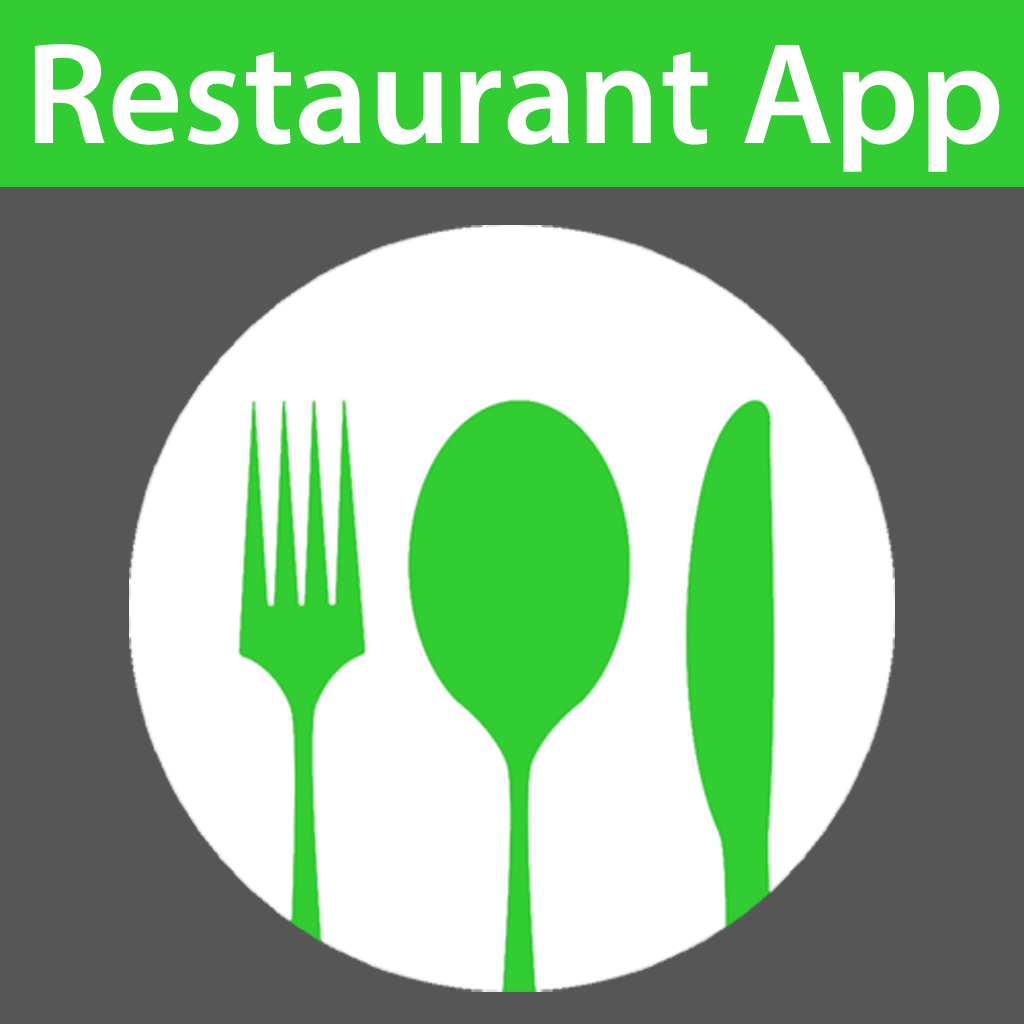
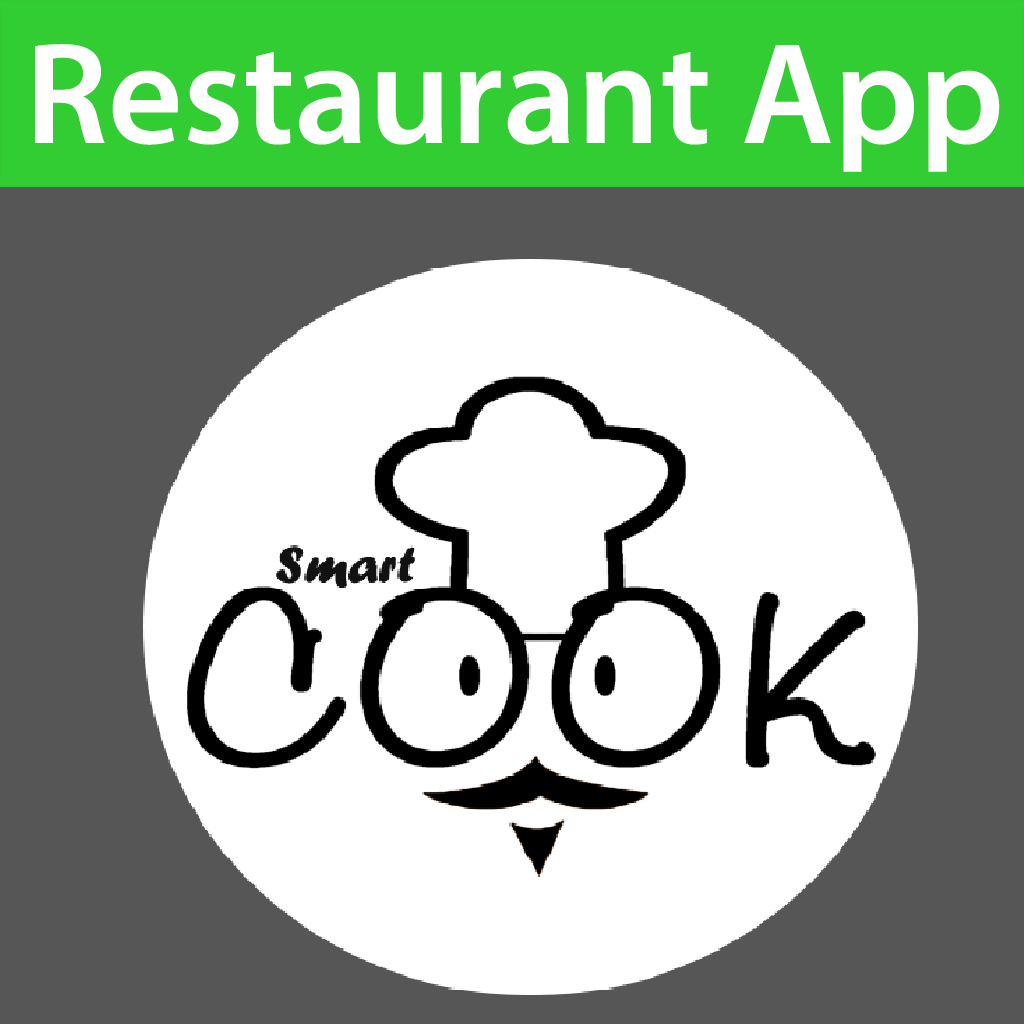
version finale

diff --git a/src/pages/home/home.html b/src/pages/home/home.html
@@ -3,7 +3,7 @@
     <button ion-button menuToggle>
       <ion-icon name="menu"></ion-icon>
     </button>
-    <ion-title class="title">{{"Restaurant App" | translate}}
+    <ion-title class="title">{{"Restaurant eat 'it" | translate}}
     </ion-title>
   </ion-navbar>
 </ion-header>
@@ -14,11 +14,11 @@
     <ion-row>
       <!-- first row -->
       <ion-slides pager initialSlide=0 speed=2000 loop=true dir="rtl">
-        <ion-slide *ngFor="let item of ComingData">
+        <ion-slide >
           <div class="overlay">
-            <img src={{item.thumb}} class="slider-img">
+            <img src="assets/img/logosmartcook.png" class="slider-img">
           </div>
-          <div class="card-title">{{"Eat It" | translate}}</div>
+        <!--  <div class="card-title">{{"Eat It" | translate}}</div> -->
         </ion-slide>
       </ion-slides>
     </ion-row>

diff --git a/src/pages/login/login.ts b/src/pages/login/login.ts
@@ -12,7 +12,7 @@ import { FormGroup, FormBuilder, Validators } from "@angular/forms";
 import { AngularFireAuth } from "@angular/fire/auth";
 import { AngularFireDatabase } from "@angular/fire/database";
 import { Facebook } from "@ionic-native/facebook";
-import * as firebase from "firebase";
+
 import { GooglePlus } from "@ionic-native/google-plus";
 import { TwitterConnect } from "@ionic-native/twitter-connect";
 import { AuthService } from "../../services/auth.service"

diff --git a/src/pages/chat/chat.ts b/src/pages/chat/chat.ts
@@ -1,6 +1,6 @@
 import { Component, ViewChild, ElementRef } from "@angular/core";
 import { FormGroup } from '@angular/forms';
-import { Content } from "ionic-angular/index";
+//import { Content } from "ionic-angular/index";
 import { IonicPage, NavController } from "ionic-angular";
 import { AuthService } from "../../services/auth.service"
 import { SocketService } from "../../services/socket.service"

diff --git a/src/pages/category/category.ts b/src/pages/category/category.ts
@@ -1,7 +1,7 @@
 import { Component } from "@angular/core";
 import { IonicPage, NavController, LoadingController } from "ionic-angular";
 import { AngularFireDatabase, AngularFireList } from "@angular/fire/database";
-import { map } from "rxjs/operators";
+//import { map } from "rxjs/operators";
 import { MenusService } from "../../services/menu.service";
 @IonicPage()
 @Component({

diff --git a/src/pages/home/home.scss b/src/pages/home/home.scss
@@ -3,6 +3,7 @@ page-home {
     font-family: 'Lucida Handwriting';
     margin-top: 1rem;
   }
+
   /*slider*/
   .grid {
     padding: 0px;
@@ -15,7 +16,7 @@ page-home {
         display: inline-flex;
       }
       .slider-img {
-        height: 220px;
+        height: 100%;
         width: 100%;
         position: relative;
         z-index: -111;

diff --git a/src/pages/forgot-password/forgot-password.ts b/src/pages/forgot-password/forgot-password.ts
@@ -6,7 +6,7 @@ import { AngularFireAuth } from '@angular/fire/auth';
 import { FormBuilder } from '@angular/forms';
 import { FormGroup } from '@angular/forms';
 import { Component } from '@angular/core';
-import { IonicPage, NavController, NavParams } from 'ionic-angular';
+import { IonicPage, NavController } from 'ionic-angular';
 
 
 @IonicPage()

diff --git a/src/pages/home/home.ts b/src/pages/home/home.ts
@@ -1,7 +1,6 @@
 import { Component } from "@angular/core";
 import { IonicPage, NavController, LoadingController } from "ionic-angular";
 import { AngularFireDatabase, AngularFireList } from "@angular/fire/database";
-import { map } from "rxjs/operators";
 import { MenusService } from "../../services/menu.service";
 
 @IonicPage()

diff --git a/src/theme/variables.scss b/src/theme/variables.scss
@@ -33,6 +33,7 @@ $light-white: #535353;
 $charcoal-grey: #9b9696;
 $white-a: #f3f0f0;
 $white-b: #e9e7e7;
+$toolbar: #3366ff;
 // App iOS Variables
 // --------------------------------------------------
 // iOS only Sass variables can go here

diff --git a/src/app/app.scss b/src/app/app.scss
@@ -121,7 +121,7 @@ ion-badge {
 /*side bar scss*/
 /*common-header*/
 .toolbar-background {
-  background: $danger !important;
+  background: $toolbar !important;
 }
 
 .toolbar-title {
